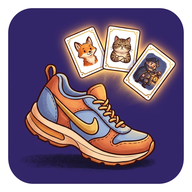
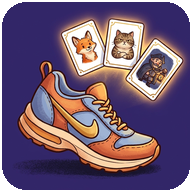
Иконка без белой рамки + maskable-версии: убраны белые поля на Android (wc-v28)

diff --git a/sw.js b/sw.js
@@ -3,7 +3,7 @@
    поднимай номер версии (ниже и в ?v=... у тегов в index.html),
    иначе телефон покажет старую копию. */
 
-const VERSION = 'wc-v27';
+const VERSION = 'wc-v28';
 
 const ASSETS = [
   './',
@@ -91,7 +91,9 @@ const ASSETS = [
   'img/kot/16_otpusk_v_tazu.webp',
   'img/kot/17_banochnyy_perepoloh.webp',
   'icons/icon-192.png',
-  'icons/icon-512.png'
+  'icons/icon-512.png',
+  'icons/icon-192-maskable.png',
+  'icons/icon-512-maskable.png'
 ];
 
 self.addEventListener('install', e => {

diff --git a/tools/make_icons.py b/tools/make_icons.py
@@ -1,0 +1,104 @@
+# Пересборка иконок PWA:
+# 1) "any" версии — убираем белую рамку вокруг фиолетового квадрата,
+#    углы делаем прозрачными (скругление сохраняем).
+# 2) "maskable" версии — фон (фиолетовый) заливает весь квадрат до краёв,
+#    рисунок масштабируется в безопасную зону (центральный круг d=80%),
+#    чтобы Android не обрезал кроссовок/карточки своей маской.
+import sys
+from PIL import Image, ImageDraw
+
+sys.stdout.reconfigure(encoding='utf-8')
+
+SRC = r'C:\Users\ADMIN\Documents\ai_moi\walk_cards\icons\icon-512-src.png'
+OUT = r'C:\Users\ADMIN\Documents\ai_moi\walk_cards\icons'
+BG = (50, 38, 103, 255)          # цвет фона иконки #322667
+SAFE = 0.80                       # безопасная зона maskable: круг d=80%
+
+
+def corner_radius(im, left, top):
+    """Радиус скругления: подгонка окружности по двум измерениям края.
+
+    dx = ширина скругления на глубине d от верха: r - sqrt(2rd - d^2) = dx.
+    Два измерения -> квадратное уравнение -> r. Надёжнее, чем верхняя строка
+    (там пиксели антиалиасные и радиус занижается).
+    """
+    px = im.load()
+
+    def first_purple(y):
+        for x in range(left, left + 200):
+            p = px[(x, y)]
+            if p[2] > 90 and p[0] < 160:
+                return x
+        return left
+
+    d1, d2 = 7, 25
+    x1 = first_purple(top + d1) - left
+    x2 = first_purple(top + d2) - left
+    best_r, best_err = None, 1e9
+    for r in range(10, 120):  # перебор: точнее аналитики при пиксельном шуме
+        e1 = abs(r - (2 * r * d1 - d1 * d1) ** 0.5 - x1)
+        e2 = abs(r - (2 * r * d2 - d2 * d2) ** 0.5 - x2)
+        if e1 + e2 < best_err:
+            best_err, best_r = e1 + e2, r
+    return best_r
+
+
+def purple_bounds(im):
+    """Границы фиолетового квадрата (не-белая область)."""
+    w, h = im.size
+    px = im.load()
+
+    def is_purple(p):
+        return p[2] > 90 and p[0] < 160
+
+    left = next(x for x in range(w) if is_purple(px[(x, h // 2)]))
+    right = next(x for x in range(w - 1, -1, -1) if is_purple(px[(x, h // 2)]))
+    top = next(y for y in range(h) if is_purple(px[(w // 2, y)]))
+    bottom = next(y for y in range(h - 1, -1, -1) if is_purple(px[(w // 2, y)]))
+    return (left, top, right + 1, bottom + 1)
+
+
+def rounded_mask(size, radius, inset=0):
+    m = Image.new('L', (size, size), 0)
+    d = ImageDraw.Draw(m)
+    d.rounded_rectangle([inset, inset, size - 1 - inset, size - 1 - inset],
+                        radius=radius, fill=255)
+    return m
+
+
+def main():
+    im = Image.open(SRC).convert('RGBA')
+    bounds = purple_bounds(im)
+    sq = im.crop(bounds)
+    side = sq.size[0]
+    print('bounds:', bounds, 'side:', side)
+
+    # радиус скругления: подгонка окружности по краю угла
+    r = corner_radius(im, bounds[0], bounds[1])
+    print('corner radius (px в исходном масштабе):', r)
+
+    # --- "any": скруглённый квадрат без белой рамки ---
+    for size in (512, 192):
+        art = sq.resize((size, size), Image.LANCZOS)
+        art.putalpha(rounded_mask(size, round(r * size / side), inset=2))
+        path = rf'{OUT}\icon-{size}.png'
+        art.save(path)
+        print('saved', path)
+
+    # --- "maskable": фон до краёв, рисуем в безопасной зоне ---
+    for size in (512, 192):
+        canvas = Image.new('RGBA', (size, size), BG)
+        safe_side = round(size * SAFE)
+        art = sq.resize((safe_side, safe_side), Image.LANCZOS)
+        # маска на 3px внутрь: съедаем антиалиасный белый ореол по краям квадрата
+        m = rounded_mask(safe_side, round(r * safe_side / side) + 2, inset=3)
+        art.putalpha(m)
+        off = (size - safe_side) // 2
+        canvas.paste(art, (off, off), art)
+        path = rf'{OUT}\icon-{size}-maskable.png'
+        canvas.save(path)
+        print('saved', path)
+
+
+if __name__ == '__main__':
+    main()
